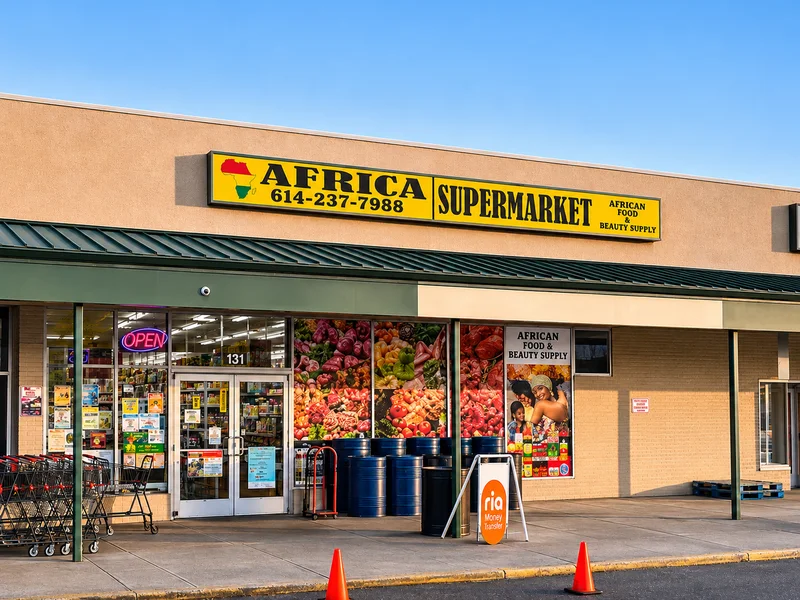
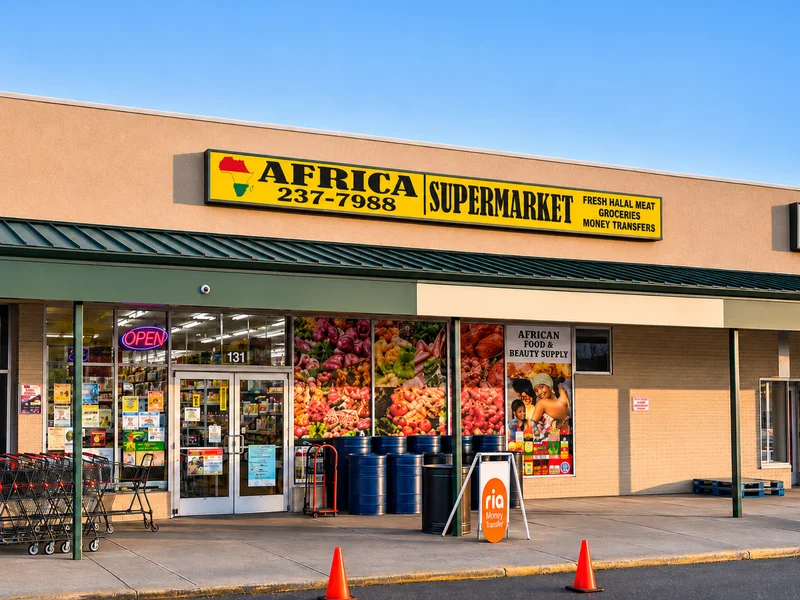
Use the store's storefront photo with its real sign
Claude-Session: https://claude.ai/code/session_015XLXhz7dvSGTXYtehKYjXb

Changed region(s): [[0.0, 0.15, 1.0, 1.0]]

diff --git a/js/store.js b/js/store.js
@@ -123,7 +123,7 @@
         </ul>
       </div>
       <figure class="hero3-photo">
-        <img src="img/store-front.webp" srcset="img/store-front-800.webp 800w, img/store-front.webp 1448w" sizes="(max-width: 900px) 100vw, 52vw" alt="Africa Supermarket storefront with yellow sign, shopping carts and window displays" fetchpriority="high">
+        <img src="img/store-front.webp" srcset="img/store-front-800.webp 800w, img/store-front.webp 1448w" sizes="(max-width: 900px) 100vw, 52vw" alt="Africa Supermarket storefront: yellow sign reading Fresh Halal Meat, Groceries, Money Transfers, with shopping carts and window displays" fetchpriority="high">
         <figcaption><span class="pinb">${I("pin")}</span><span><b>${C.store.street}</b>${C.store.city}, ${C.store.state} ${C.store.zip} · <a href="${C.store.phoneHref}">${C.store.phone}</a></span></figcaption>
       </figure>
     </div></section>
